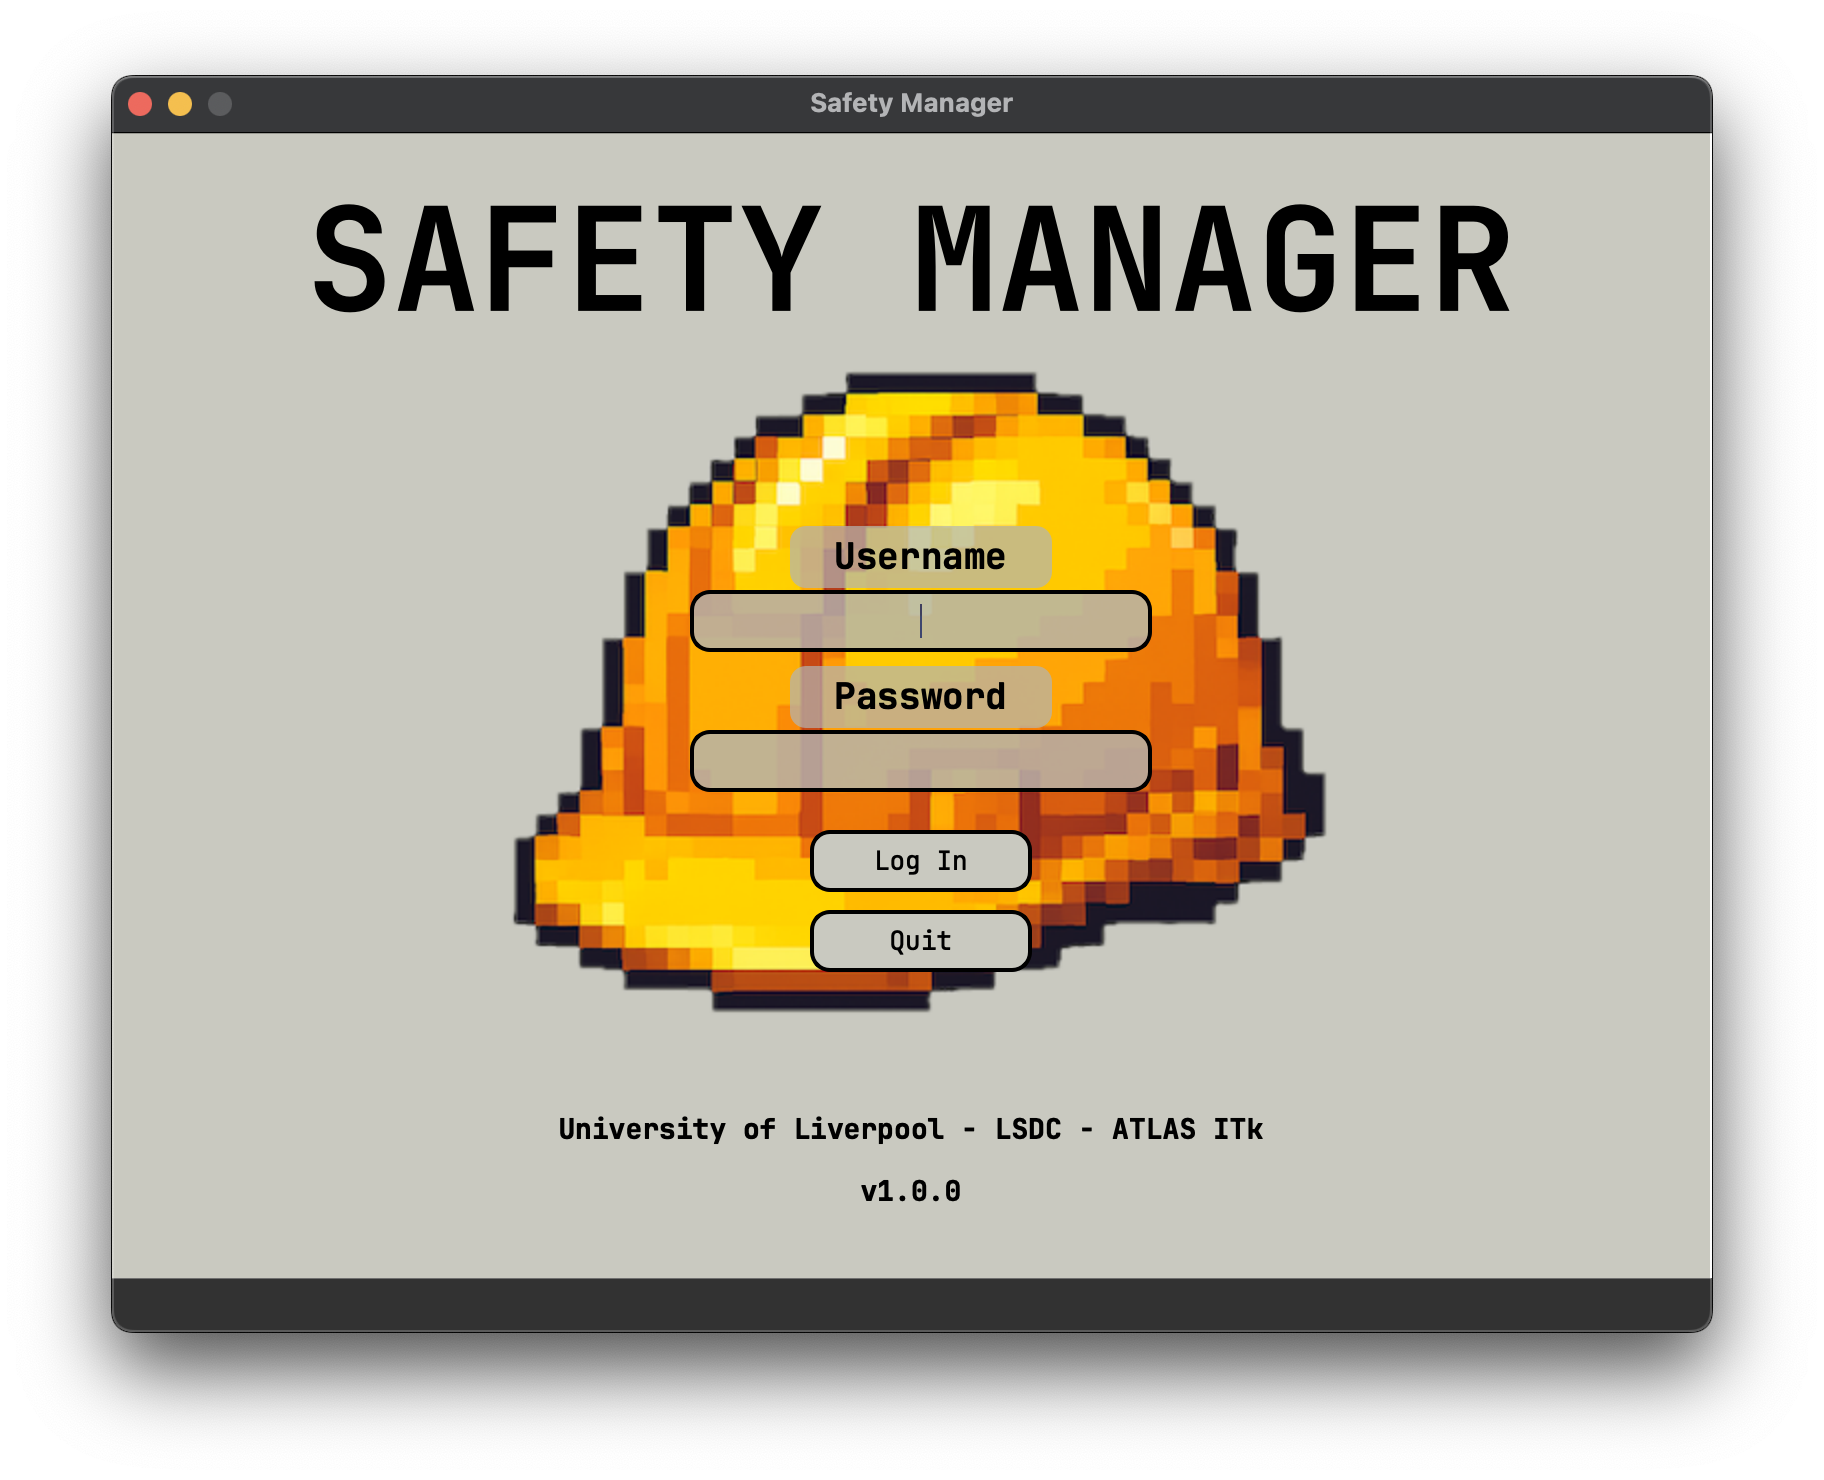
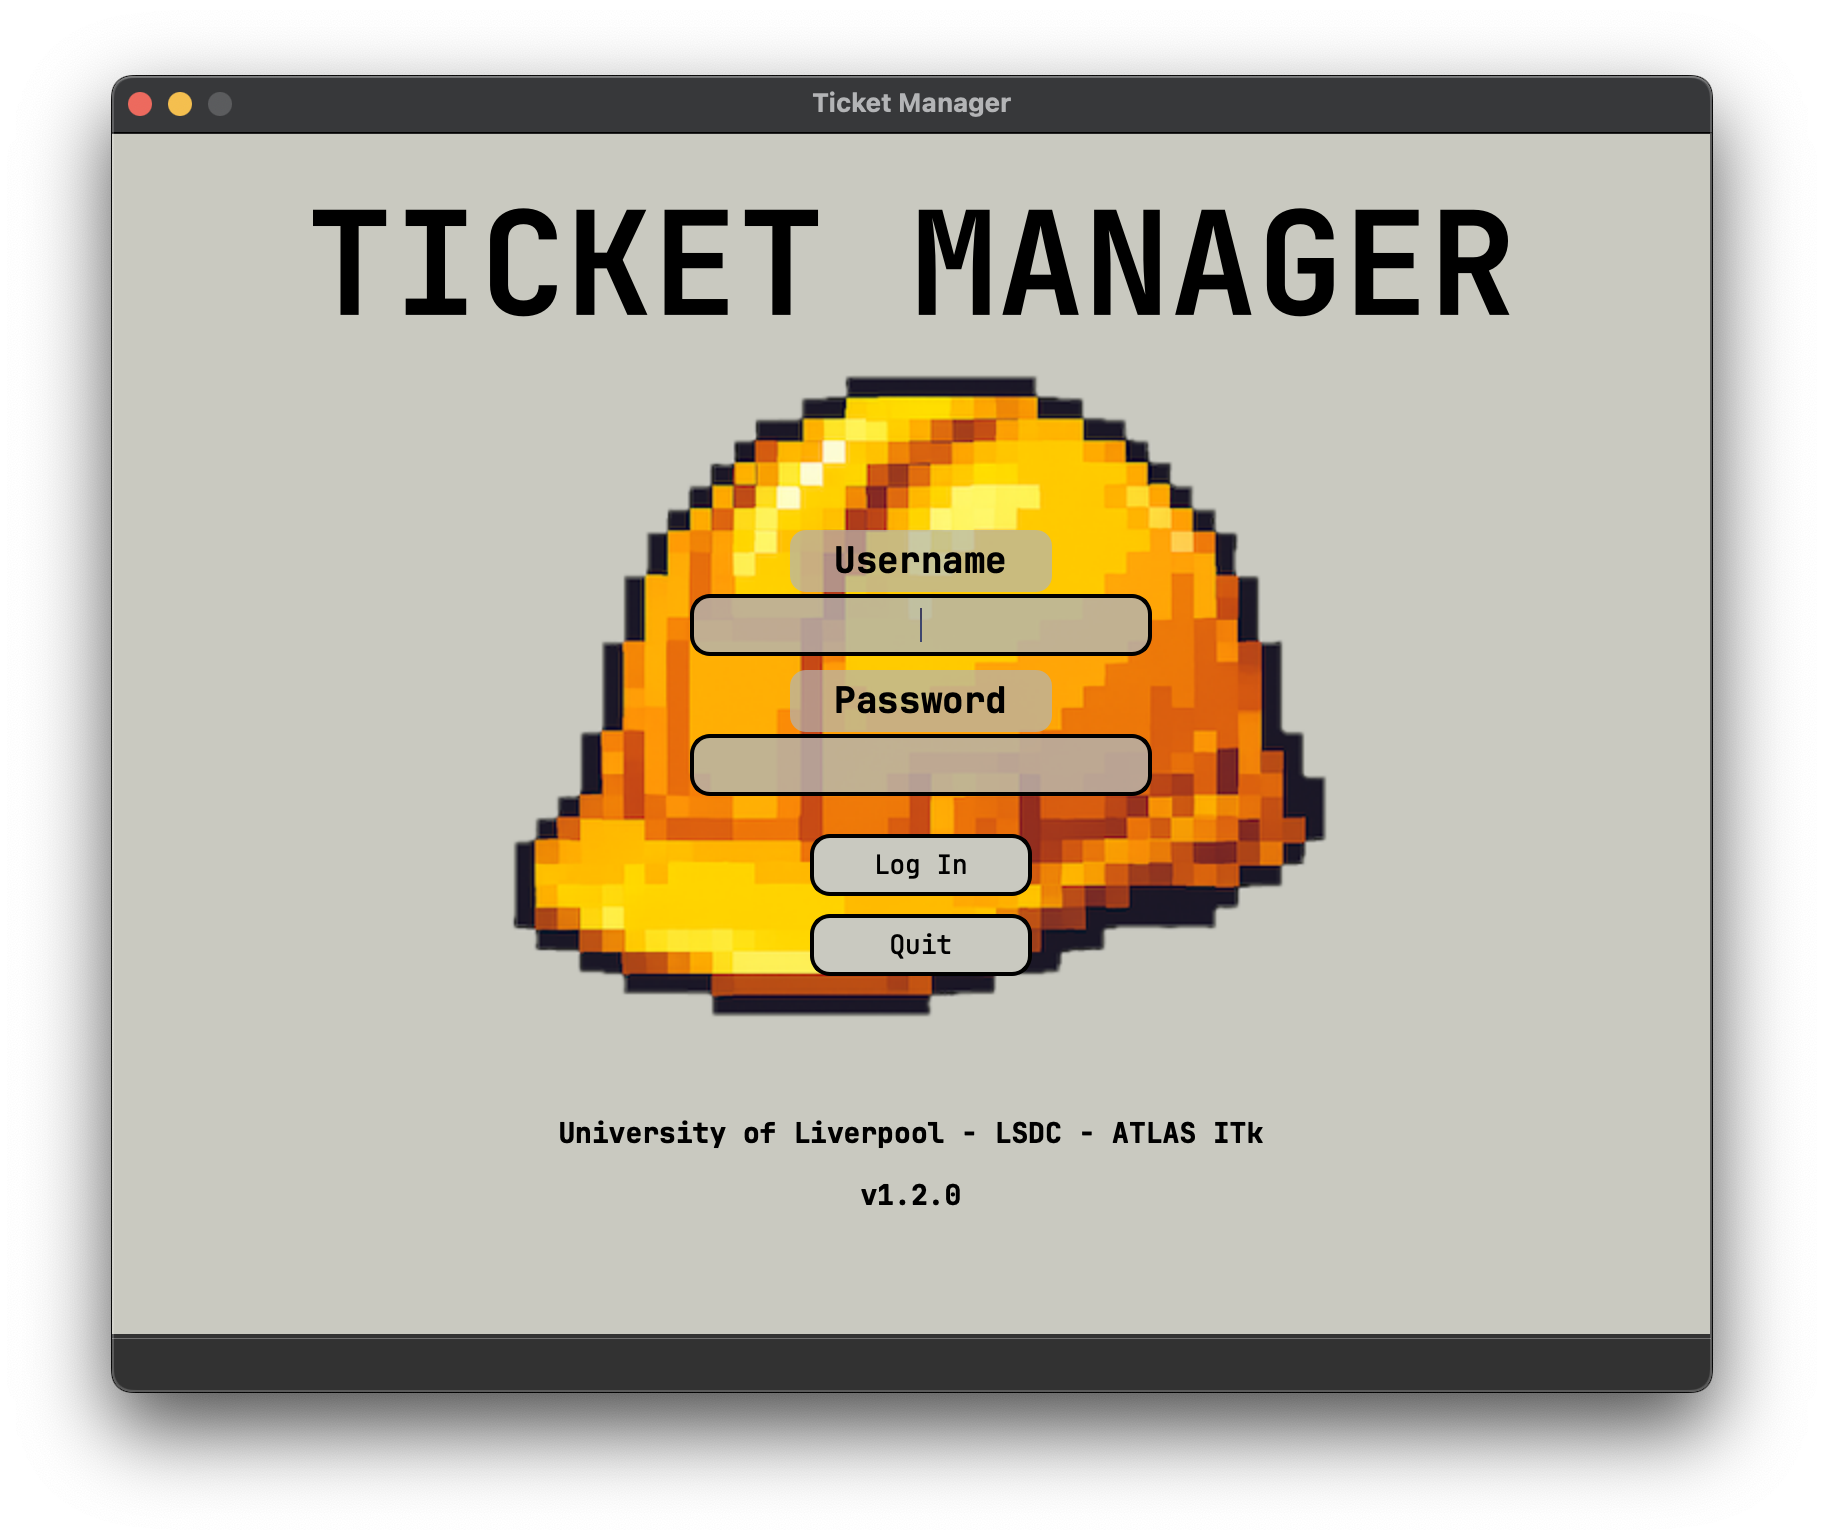
Change app title

diff --git a/assets/main_gui.py b/assets/main_gui.py
@@ -346,8 +346,8 @@ class Ui_MainWindow(object):
     # setupUi
 
     def retranslateUi(self, MainWindow):
-        MainWindow.setWindowTitle(QCoreApplication.translate("MainWindow", u"Safety Manager", None))
-        self.appTitle.setText(QCoreApplication.translate("MainWindow", u"<html><head/><body><p align=\"center\"><span style=\" font-size:72pt;\">SAFETY MANAGER</span></p></body></html>", None))
+        MainWindow.setWindowTitle(QCoreApplication.translate("MainWindow", u"Ticket Manager", None))
+        self.appTitle.setText(QCoreApplication.translate("MainWindow", u"<html><head/><body><p align=\"center\"><span style=\" font-size:72pt;\">TICKET MANAGER</span></p></body></html>", None))
         self.loginButton.setText(QCoreApplication.translate("MainWindow", u"Log In", None))
         self.usernameLabel.setText(QCoreApplication.translate("MainWindow", u"<html><head/><body><p align=\"center\"><span style=\" font-size:18pt; font-weight:700;\">Username</span></p></body></html>", None))
         self.passInput.setText("")

diff --git a/README.md b/README.md
@@ -1,7 +1,7 @@
-# Safety Manager  
-GUI program with active database to submit and control the flow  
-of health and safety related queries. Ideal for monitoring issues  
-in a controlled settings such as laboratories or workshops.
+# Ticket Manager 
+GUI program with active database to submit and control the flow of workplace-management  
+related queries e.g health & safety, general issues and stock management. Ideal for monitoring    
+in controlled settings such as laboratories or workshops.  
 
 ## Details
 ![PySide6](https://img.shields.io/badge/PySide6-6.10.1-brightgreen)  
@@ -49,7 +49,7 @@ in a controlled settings such as laboratories or workshops.
 
 ## Usage
 1. The program requires an existing database project and created authorised user with Supabase
-2. Create, delete and update H&S tickets that can be managed across accessible users
+2. Create, delete and update tickets that can be managed across accessible users
 3. Single click buttons in the row provide the following actions:  
     - Toggle ticket status between "Active" and "Completed"
     - Update and store ticket information with "Details"
